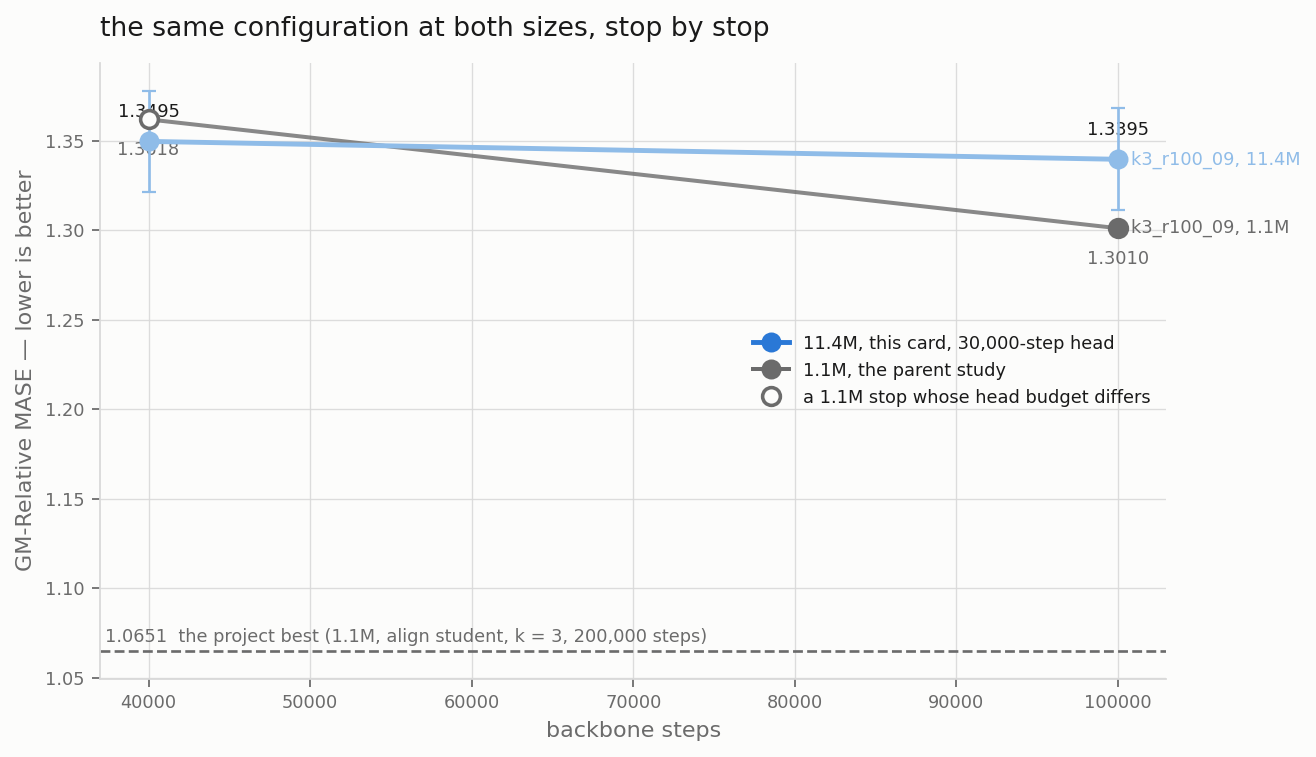
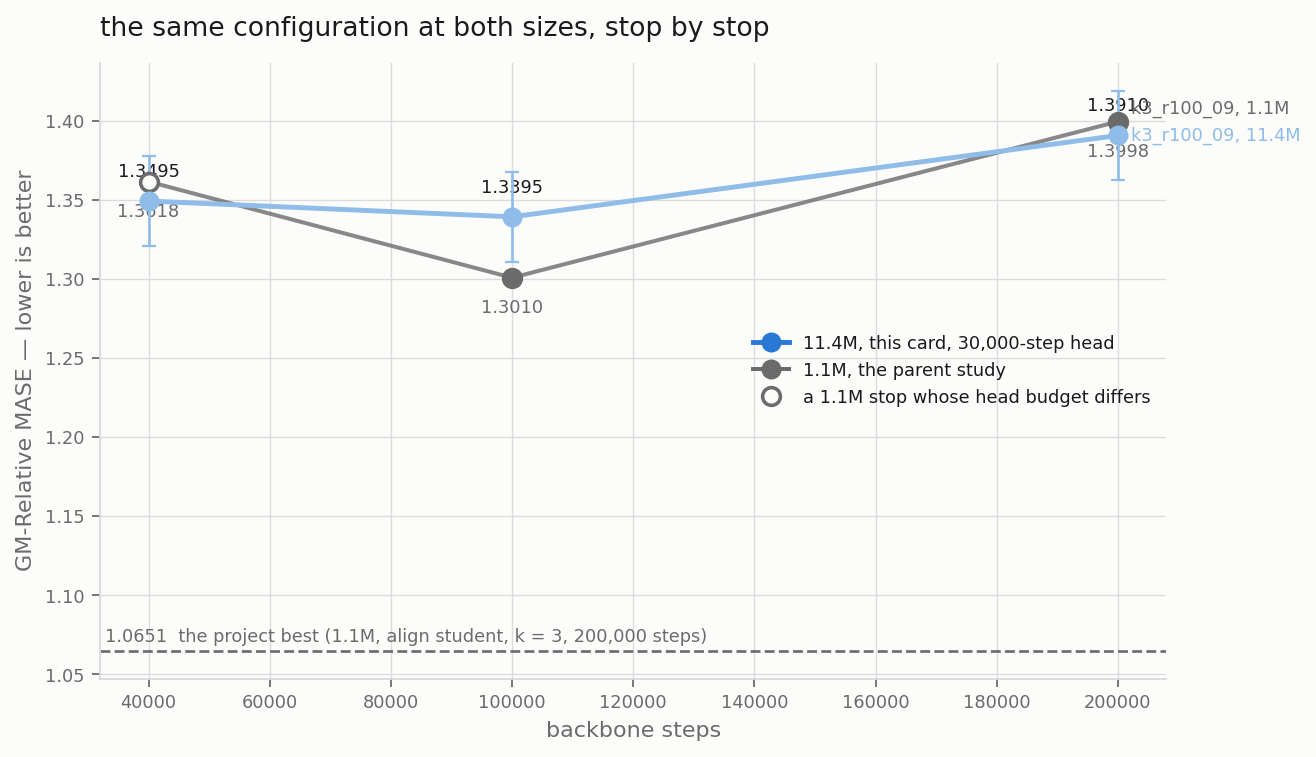
exp(#412): three stops, 0.0515 of spread, and the size gap changes sign twice
k3_r100_09 reads 1.3495, 1.3395 and 1.3910 over five times the steps. The whole
spread is inside one band and the 200,000-step number is the worst of the
three, so a longer stop does not rescue this size.

The size gap is +0.22, -0.68 and +0.15 bands across those stops. A quantity
that small whose sign flips twice is noise, and a reader who picks one stop is
picking the noise.

diff --git a/reports/2026-09-06_moirai_small_size/moirai_small_size.md b/reports/2026-09-06_moirai_small_size/moirai_small_size.md
@@ -62,10 +62,16 @@ the project actually wants to beat, and 1.1820 does not beat it.
 
 ![the climb](plots/climb.png)
 
-`k3_r100_09` scores 1.3495 at 40,000 steps and 1.3395 at 100,000. The gain is
-0.0100 against a seed band of 0.0568. So a later stop does not move this
-size's rank, and the 40,000-step order of this card stands. The 200,000-step
-leg runs, because 1.0651 is a 200,000-step number.
+`k3_r100_09` scores 1.3495 at 40,000 steps, 1.3395 at 100,000 and 1.3910 at
+200,000. The whole spread over five times the steps is 0.0515, still inside one
+0.0568 band, and the 200,000-step number is the WORST of the three. So a later
+stop does not move this size's rank, and the 40,000-step order of this card
+stands.
+
+THE SIGN OF THE SIZE GAP CHANGES TWICE across those stops: the 11.4M model is
+ahead at 40,000, behind at 100,000, ahead again at 200,000, by 0.22, 0.68 and
+0.15 of a band. A quantity that small and that unstable in sign is noise, and
+reading a winner out of any single stop would be reading the noise.
 
 ## 1e-3 does not fit this width, and it voids every 1e-3 number here
 
